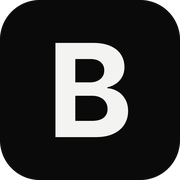
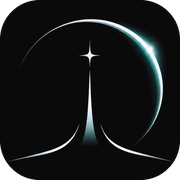
Use the Boscon Space lockup as the site identity
Symbol and stacked wordmark cut from the supplied artwork as transparent
PNGs; nav shows symbol plus wordmark; favicon, touch icon and Open Graph
image derived from the same lockup. Removes the typeset wordmark SVGs.

diff --git a/index.html b/index.html
@@ -7,35 +7,22 @@
   <meta name="description" content="Boscon Space builds AI hardware and research centres in orbit, and a mesh that keeps every satellite in contact with the ground, every minute of every orbit.">
   <meta property="og:title" content="Boscon Space">
   <meta property="og:description" content="AI in orbit. Always in contact.">
-  <meta property="og:image" content="https://images.unsplash.com/photo-1451187580459-43490279c0fa?auto=format&fit=crop&w=1600&q=70">
+  <meta property="og:image" content="https://space.ketoy.dev/assets/og.jpg">
   <meta property="og:url" content="https://space.ketoy.dev/">
   <link rel="canonical" href="https://space.ketoy.dev/">
   <meta name="theme-color" content="#0a0a0b">
-  <link rel="icon" href="assets/favicon.svg" type="image/svg+xml">
   <link rel="icon" href="assets/favicon-32.png" sizes="32x32" type="image/png">
   <link rel="apple-touch-icon" href="assets/apple-touch-icon.png">
   <link rel="preconnect" href="https://fonts.googleapis.com">
   <link rel="preconnect" href="https://fonts.gstatic.com" crossorigin>
   <link rel="preconnect" href="https://images.unsplash.com">
   <link href="https://fonts.googleapis.com/css2?family=Inter+Tight:wght@400;500;600&family=Inter:wght@400;500&display=swap" rel="stylesheet">
-  <link rel="stylesheet" href="css/style.css?v=5">
+  <link rel="stylesheet" href="css/style.css?v=7">
 </head>
 <body>
 
   <header class="nav" id="nav">
-    <a class="brand" href="#top" aria-label="Boscon Space, home"><svg class="brand__wm" xmlns="http://www.w3.org/2000/svg" viewBox="0 -102 1126.9 104" fill="currentColor" role="img" aria-label="Boscon Space">
-<path d="M6.442953020134228 0.0V-100.0H46.442953020134226Q57.4496644295302 -100.0 64.83221476510067 -96.71140939597316Q72.21476510067114 -93.42281879194631 75.93959731543625 -87.6510067114094Q79.66442953020135 -81.87919463087249 79.66442953020135 -74.36241610738256Q79.66442953020135 -68.52348993288591 77.28187919463087 -64.09395973154362Q74.8993288590604 -59.66442953020134 70.83892617449663 -56.84563758389261Q66.77852348993288 -54.02684563758389 61.54362416107383 -52.88590604026846V-51.87919463087248Q67.24832214765101 -51.61073825503356 72.28187919463087 -48.65771812080537Q77.31543624161074 -45.70469798657718 80.43624161073825 -40.36912751677852Q83.55704697986577 -35.033557046979865 83.55704697986577 -27.651006711409398Q83.55704697986577 -19.731543624161073 79.63087248322148 -13.456375838926174Q75.70469798657719 -7.181208053691275 68.0536912751678 -3.5906040268456376Q60.40268456375839 0.0 49.12751677852349 0.0ZM27.516778523489933 -17.248322147651006H44.83221476510067Q53.624161073825505 -17.248322147651006 57.68456375838926 -20.671140939597315Q61.74496644295302 -24.093959731543624 61.74496644295302 -29.731543624161073Q61.74496644295302 -33.89261744966443 59.76510067114094 -37.080536912751676Q57.785234899328856 -40.26845637583892 54.09395973154362 -42.080536912751676Q50.40268456375839 -43.89261744966443 45.302013422818796 -43.89261744966443H27.516778523489933ZM27.516778523489933 -58.12080536912752H43.22147651006711Q47.58389261744966 -58.12080536912752 50.97315436241611 -59.664429530201346Q54.36241610738255 -61.20805369127517 56.308724832214764 -64.06040268456377Q58.25503355704698 -66.91275167785236 58.25503355704698 -70.87248322147651Q58.25503355704698 -76.24161073825503 54.46308724832215 -79.56375838926175Q50.671140939597315 -82.88590604026845 43.624161073825505 -82.88590604026845H27.516778523489933Z"/>
-<path fill-rule="evenodd" d="M 93.91 -50.00 a 51.34 51.34 0 1 0 102.68 0 a 51.34 51.34 0 1 0 -102.68 0 Z M 112.41 -50.00 a 32.84 32.84 0 1 0 65.68 0 a 32.84 32.84 0 1 0 -65.68 0 Z"/>
-<path d="M247.75167785234902 1.4093959731543624Q235.67114093959734 1.4093959731543624 226.71140939597316 -2.2818791946308723Q217.751677852349 -5.973154362416107 212.751677852349 -13.288590604026846Q207.751677852349 -20.604026845637584 207.48322147651007 -31.409395973154364H227.88590604026848Q228.28859060402687 -26.44295302013423 230.83892617449666 -23.053691275167786Q233.38926174496646 -19.664429530201343 237.6845637583893 -17.986577181208055Q241.9798657718121 -16.308724832214764 247.5503355704698 -16.308724832214764Q252.91946308724835 -16.308724832214764 256.9127516778524 -17.85234899328859Q260.90604026845637 -19.395973154362416 263.0872483221476 -22.181208053691275Q265.2684563758389 -24.966442953020135 265.2684563758389 -28.65771812080537Q265.2684563758389 -32.013422818791945 263.2885906040268 -34.29530201342282Q261.30872483221475 -36.577181208053695 257.51677852348996 -38.187919463087255Q253.72483221476512 -39.79865771812081 248.28859060402687 -41.07382550335571L237.3489932885906 -43.758389261744966Q224.73154362416108 -46.77852348993289 217.41610738255034 -53.38926174496645Q210.1006711409396 -60.0 210.1006711409396 -71.0738255033557Q210.1006711409396 -80.13422818791946 215.03355704697987 -86.94630872483222Q219.96644295302013 -93.75838926174497 228.52348993288592 -97.5503355704698Q237.08053691275168 -101.34228187919463 248.02013422818794 -101.34228187919463Q259.16107382550337 -101.34228187919463 267.44966442953023 -97.51677852348993Q275.73825503355704 -93.69127516778524 280.4026845637584 -86.91275167785236Q285.06711409395973 -80.13422818791946 285.2013422818792 -71.2751677852349H264.86577181208054Q264.3288590604027 -77.11409395973155 259.86577181208054 -80.40268456375838Q255.40268456375838 -83.69127516778524 247.81879194630875 -83.69127516778524Q242.71812080536915 -83.69127516778524 239.1275167785235 -82.24832214765101Q235.53691275167785 -80.80536912751678 233.65771812080538 -78.25503355704699Q231.7785234899329 -75.70469798657719 231.7785234899329 -72.41610738255034Q231.7785234899329 -68.9261744966443 233.9261744966443 -66.54362416107382Q236.07382550335572 -64.16107382550335 239.66442953020135 -62.651006711409394Q243.255033557047 -61.14093959731544 247.5503355704698 -60.13422818791946L256.4765100671141 -57.919463087248324Q262.9865771812081 -56.442953020134226 268.48993288590606 -53.993288590604024Q273.99328859060404 -51.54362416107382 278.0536912751678 -47.98657718120805Q282.1140939597316 -44.42953020134228 284.3288590604027 -39.63087248322148Q286.5436241610738 -34.83221476510067 286.5436241610738 -28.59060402684564Q286.5436241610738 -19.395973154362416 281.9463087248322 -12.651006711409396Q277.3489932885906 -5.906040268456376 268.6912751677852 -2.248322147651007Q260.03355704697987 1.4093959731543624 247.75167785234902 1.4093959731543624Z"/>
-<path d="M348.4731543624161 1.342281879194631Q335.1845637583893 1.342281879194631 324.6476510067114 -4.697986577181208Q314.11073825503354 -10.738255033557047 308.003355704698 -22.21476510067114Q301.8959731543624 -33.691275167785236 301.8959731543624 -49.93288590604027Q301.8959731543624 -66.30872483221476 308.03691275167785 -77.81879194630872Q314.17785234899327 -89.32885906040268 324.74832214765104 -95.33557046979865Q335.31879194630875 -101.34228187919463 348.4731543624161 -101.34228187919463Q357.1979865771812 -101.34228187919463 364.6476510067114 -98.89261744966443Q372.0973154362416 -96.44295302013423 377.83557046979865 -91.7785234899329Q383.5738255033557 -87.11409395973155 387.1979865771812 -80.36912751677852Q390.82214765100673 -73.6241610738255 391.8288590604027 -64.96644295302013H370.4865771812081Q369.8825503355705 -69.06040268456375 368.1040268456376 -72.3489932885906Q366.3255033557047 -75.63758389261746 363.47315436241615 -77.91946308724832Q360.62080536912754 -80.20134228187919 356.96308724832215 -81.44295302013423Q353.30536912751677 -82.68456375838926 348.9429530201342 -82.68456375838926Q341.29194630872485 -82.68456375838926 335.4865771812081 -78.8255033557047Q329.6812080536913 -74.96644295302013 326.49328859060404 -67.68456375838926Q323.30536912751677 -60.40268456375839 323.30536912751677 -49.93288590604027Q323.30536912751677 -39.261744966442954 326.5268456375839 -31.97986577181208Q329.74832214765104 -24.697986577181208 335.52013422818794 -21.006711409395972Q341.29194630872485 -17.315436241610737 348.8758389261745 -17.315436241610737Q353.1040268456376 -17.315436241610737 356.7281879194631 -18.456375838926174Q360.3523489932886 -19.59731543624161 363.1711409395973 -21.74496644295302Q365.98993288590606 -23.892617449664428 367.9026845637584 -27.013422818791945Q369.81543624161077 -30.13422818791946 370.4865771812081 -34.16107382550336H391.8288590604027Q391.0234899328859 -27.248322147651006 387.7684563758389 -20.87248322147651Q384.5134228187919 -14.496644295302014 378.9429530201342 -9.496644295302014Q373.3724832214765 -4.496644295302014 365.7214765100671 -1.5771812080536916Q358.0704697986577 1.342281879194631 348.4731543624161 1.342281879194631Z"/>
-<path fill-rule="evenodd" d="M 403.72 -50.00 a 51.34 51.34 0 1 0 102.68 0 a 51.34 51.34 0 1 0 -102.68 0 Z M 422.22 -50.00 a 32.84 32.84 0 1 0 65.68 0 a 32.84 32.84 0 1 0 -65.68 0 Z"/>
-<path d="M604.1442953020135 -100.0V0.0H585.8892617449665L542.4664429530202 -62.88590604026846H541.5939597315437V0.0H520.520134228188V-100.0H539.0436241610739L582.1979865771813 -37.11409395973154H583.0704697986578V-100.0Z"/>
-<path d="M693.7214765100672 1.4093959731543624Q681.6409395973155 1.4093959731543624 672.6812080536913 -2.2818791946308723Q663.7214765100672 -5.973154362416107 658.7214765100672 -13.288590604026846Q653.7214765100672 -20.604026845637584 653.4530201342283 -31.409395973154364H673.8557046979867Q674.258389261745 -26.44295302013423 676.8087248322149 -23.053691275167786Q679.3590604026847 -19.664429530201343 683.6543624161075 -17.986577181208055Q687.9496644295303 -16.308724832214764 693.520134228188 -16.308724832214764Q698.8892617449666 -16.308724832214764 702.8825503355706 -17.85234899328859Q706.8758389261747 -19.395973154362416 709.0570469798658 -22.181208053691275Q711.2382550335572 -24.966442953020135 711.2382550335572 -28.65771812080537Q711.2382550335572 -32.013422818791945 709.2583892617452 -34.29530201342282Q707.278523489933 -36.577181208053695 703.4865771812082 -38.187919463087255Q699.6946308724833 -39.79865771812081 694.258389261745 -41.07382550335571L683.3187919463088 -43.758389261744966Q670.7013422818793 -46.77852348993289 663.3859060402685 -53.38926174496645Q656.0704697986579 -60.0 656.0704697986579 -71.0738255033557Q656.0704697986579 -80.13422818791946 661.0033557046982 -86.94630872483222Q665.9362416107384 -93.75838926174497 674.4932885906042 -97.5503355704698Q683.0503355704699 -101.34228187919463 693.9899328859061 -101.34228187919463Q705.1308724832215 -101.34228187919463 713.4194630872485 -97.51677852348993Q721.7080536912753 -93.69127516778524 726.3724832214766 -86.91275167785236Q731.036912751678 -80.13422818791946 731.1711409395974 -71.2751677852349H710.8355704697988Q710.2986577181209 -77.11409395973155 705.8355704697988 -80.40268456375838Q701.3724832214766 -83.69127516778524 693.7885906040269 -83.69127516778524Q688.6879194630874 -83.69127516778524 685.0973154362417 -82.24832214765101Q681.5067114093961 -80.80536912751678 679.6275167785236 -78.25503355704699Q677.7483221476512 -75.70469798657719 677.7483221476512 -72.41610738255034Q677.7483221476512 -68.9261744966443 679.8959731543625 -66.54362416107382Q682.0436241610739 -64.16107382550335 685.6342281879196 -62.651006711409394Q689.2248322147652 -61.14093959731544 693.520134228188 -60.13422818791946L702.4463087248323 -57.919463087248324Q708.9563758389263 -56.442953020134226 714.4597315436242 -53.993288590604024Q719.9630872483223 -51.54362416107382 724.023489932886 -47.98657718120805Q728.0838926174498 -44.42953020134228 730.2986577181209 -39.63087248322148Q732.513422818792 -34.83221476510067 732.513422818792 -28.59060402684564Q732.513422818792 -19.395973154362416 727.9161073825504 -12.651006711409396Q723.3187919463088 -5.906040268456376 714.6610738255035 -2.248322147651007Q706.0033557046982 1.4093959731543624 693.7214765100672 1.4093959731543624Z"/>
-<path d="M749.6778523489935 0.0V-100.0H789.0738255033559Q800.4161073825505 -100.0 808.4362416107384 -95.67114093959731Q816.4563758389263 -91.34228187919463 820.7181208053693 -83.69127516778524Q824.9798657718122 -76.04026845637584 824.9798657718122 -66.04026845637584Q824.9798657718122 -56.10738255033557 820.6845637583895 -48.52348993288591Q816.3892617449666 -40.939597315436245 808.2348993288592 -36.67785234899329Q800.0805369127519 -32.41610738255034 788.5369127516781 -32.41610738255034H763.4362416107384V-49.328859060402685H785.1140939597317Q791.2214765100673 -49.328859060402685 795.2147651006713 -51.47651006711409Q799.2080536912754 -53.624161073825505 801.1879194630874 -57.38255033557047Q803.1677852348995 -61.14093959731544 803.1677852348995 -66.04026845637584Q803.1677852348995 -71.0738255033557 801.1879194630874 -74.79865771812081Q799.2080536912754 -78.52348993288591 795.1812080536915 -80.60402684563758Q791.1543624161076 -82.68456375838926 785.046979865772 -82.68456375838926H770.7516778523492V0.0Z"/>
-<path d="M858.8557046979868 0.0H836.2382550335573L870.7348993288593 -100.0H897.9832214765103L932.4127516778526 0.0H909.8624161073828L884.7617449664432 -77.18120805369128H883.9563758389264ZM857.5134228187922 -39.328859060402685H911.0033557046983V-22.818791946308725H857.5134228187922Z"/>
-<path d="M992.1275167785237 1.342281879194631Q978.8389261744969 1.342281879194631 968.3020134228191 -4.697986577181208Q957.7651006711412 -10.738255033557047 951.6577181208056 -22.21476510067114Q945.55033557047 -33.691275167785236 945.55033557047 -49.93288590604027Q945.55033557047 -66.30872483221476 951.6912751677855 -77.81879194630872Q957.832214765101 -89.32885906040268 968.4026845637586 -95.33557046979865Q978.9731543624164 -101.34228187919463 992.1275167785237 -101.34228187919463Q1000.8523489932888 -101.34228187919463 1008.3020134228191 -98.89261744966443Q1015.7516778523493 -96.44295302013423 1021.4899328859063 -91.7785234899329Q1027.2281879194634 -87.11409395973155 1030.8523489932888 -80.36912751677852Q1034.4765100671143 -73.6241610738255 1035.4832214765104 -64.96644295302013H1014.1409395973157Q1013.5369127516781 -69.06040268456375 1011.7583892617452 -72.3489932885906Q1009.9798657718123 -75.63758389261746 1007.1275167785237 -77.91946308724832Q1004.2751677852351 -80.20134228187919 1000.6174496644298 -81.44295302013423Q996.9597315436245 -82.68456375838926 992.5973154362418 -82.68456375838926Q984.9463087248324 -82.68456375838926 979.1409395973157 -78.8255033557047Q973.3355704697989 -74.96644295302013 970.1476510067116 -67.68456375838926Q966.9597315436245 -60.40268456375839 966.9597315436245 -49.93288590604027Q966.9597315436245 -39.261744966442954 970.1812080536915 -31.97986577181208Q973.4026845637586 -24.697986577181208 979.1744966442955 -21.006711409395972Q984.9463087248324 -17.315436241610737 992.5302013422821 -17.315436241610737Q996.7583892617453 -17.315436241610737 1000.3825503355707 -18.456375838926174Q1004.0067114093962 -19.59731543624161 1006.825503355705 -21.74496644295302Q1009.6442953020137 -23.892617449664428 1011.5570469798661 -27.013422818791945Q1013.4697986577183 -30.13422818791946 1014.1409395973157 -34.16107382550336H1035.4832214765104Q1034.6778523489936 -27.248322147651006 1031.4228187919466 -20.87248322147651Q1028.1677852348996 -14.496644295302014 1022.5973154362418 -9.496644295302014Q1017.0268456375842 -4.496644295302014 1009.3758389261748 -1.5771812080536916Q1001.7248322147653 1.342281879194631 992.1275167785237 1.342281879194631Z"/>
-<path d="M1053.7214765100673 0.0V-100.0H1121.104026845638V-82.5503355704698H1074.795302013423V-59.06040268456376H1117.6140939597317V-41.946308724832214H1074.795302013423V-17.449664429530202H1121.2382550335574V0.0Z"/>
-</svg></a>
+    <a class="brand" href="#top" aria-label="Boscon Space, home"><img class="brand__mark" src="assets/logo-mark.png" alt="" width="574" height="519"><img class="brand__wm" src="assets/wordmark.png" alt="Boscon Space" width="836" height="173"></a>
     <nav class="nav__links" aria-label="Primary">
       <a href="#mesh">Mesh</a>
       <a href="#platform">Platform</a>

diff --git a/css/style.css b/css/style.css
@@ -47,13 +47,14 @@ h1, h2, h3 { margin: 0; font-family: var(--head); font-weight: 500; letter-spaci
 .nav {
   position: fixed; inset: 0 0 auto 0; z-index: 50;
   display: flex; align-items: center; justify-content: space-between;
-  padding: 22px var(--gutter);
+  padding: 18px var(--gutter);
   transition: transform 0.6s var(--ease);
   mix-blend-mode: difference;
 }
 .nav.is-hidden { transform: translateY(-110%); }
-.brand { display: inline-flex; align-items: center; color: #fff; }
-.brand__wm { height: 13px; width: auto; display: block; }
+.brand { display: inline-flex; align-items: center; gap: 12px; color: #fff; }
+.brand__mark { height: 46px; width: auto; display: block; }
+.brand__wm { height: 34px; width: auto; display: block; }
 .nav__links { display: flex; gap: 30px; }
 .nav__links a {
   font-size: 13px; font-weight: 500; color: #fff; position: relative; padding-bottom: 3px;
@@ -281,7 +282,8 @@ h1, h2, h3 { margin: 0; font-family: var(--head); font-weight: 500; letter-spaci
 
 @media (max-width: 960px) {
   .nav { padding: 18px var(--gutter); }
-  .brand__wm { height: 12px; }
+  .brand__mark { height: 40px; }
+  .brand__wm { height: 30px; }
   .nav__links { display: none; }
   .nav__toggle { display: block; }
   .sec { grid-template-columns: 1fr; gap: 14px; }

diff --git a/README.md b/README.md
@@ -12,3 +12,5 @@ CDN dependencies: Inter Tight and Inter (Google Fonts); GSAP 3.12 + ScrollTrigge
 Photography is hot-linked from Unsplash (NASA and Unsplash contributors); download and self-host before production.
 
 The page makes no numeric claims. Photography only: no drawn graphics, icons or illustrations.
+
+Brand: the master lockup is `assets/brand/boscon-space-lockup.png`. `assets/logo-mark*.png` and `assets/wordmark*.png` are cut from it (white and colour, transparent); icons and `og.jpg` are derived from the same file.
